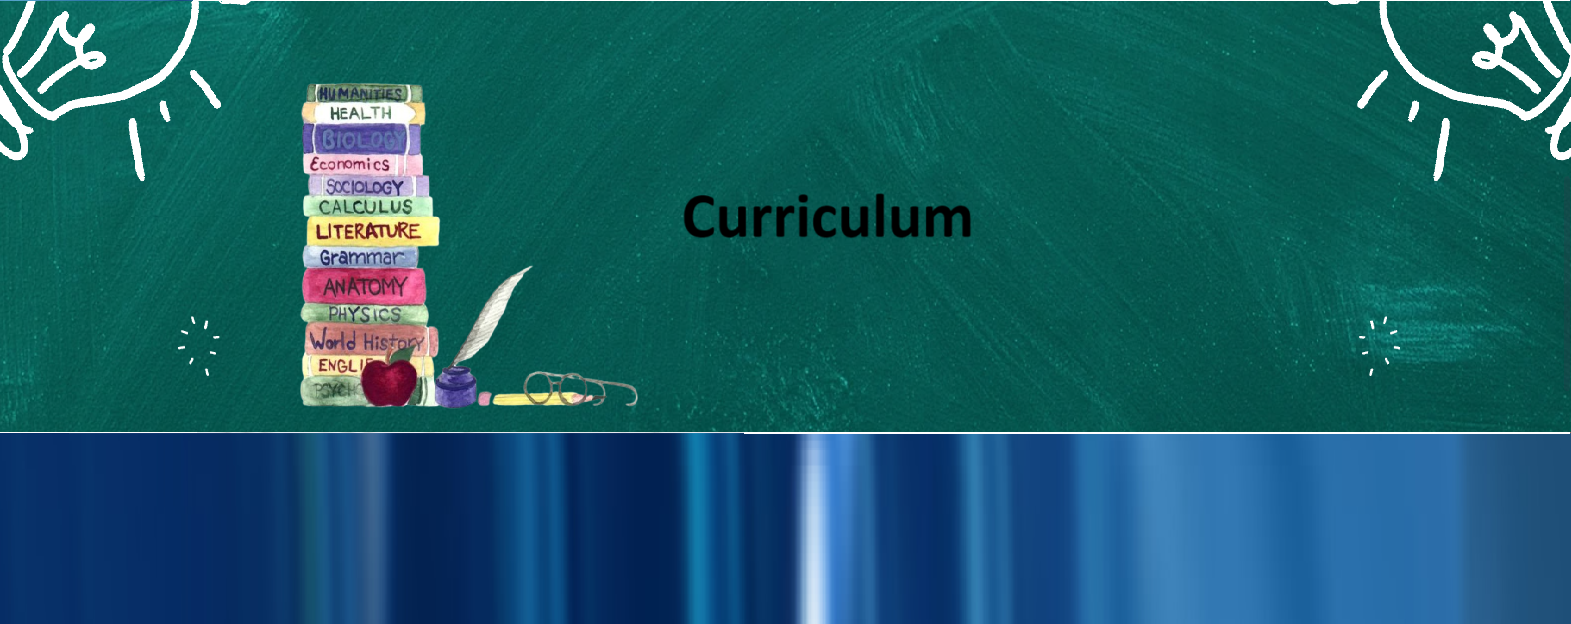
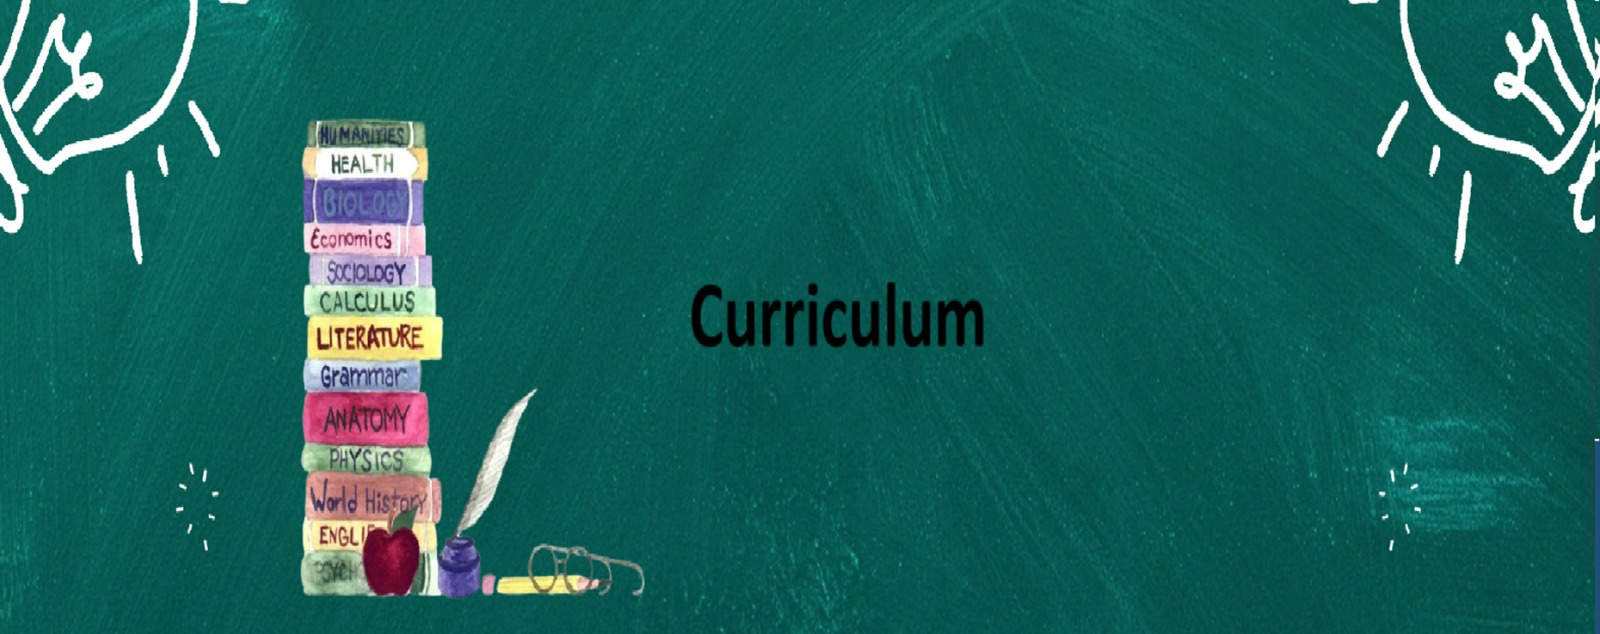
Ch-21

diff --git a/enquiry.html b/enquiry.html
@@ -4,7 +4,6 @@
 <head>
   <meta charset="utf-8">
   <title>Enquiry</title>
-  <link rel="stylesheet" href="style.css">
   <meta name="viewport" content="width=device-width, initial-scale=1.0, maximum-scale=1.0, user-scalable=no">
   <link rel="icon"
     href="https://play-lh.googleusercontent.com/MWCnZZzrbIgGoCnrtLq1-Zt4vgY3nzJSp7HvzxdnK5o0bXz6gswjgJOpRX0cddLpYOg">
@@ -18,7 +17,7 @@
   <link href="https://cdn.jsdelivr.net/npm/bootstrap@5.3.3/dist/css/bootstrap.min.css" rel="stylesheet"
     integrity="sha384-QWTKZyjpPEjISv5WaRU9OFeRpok6YctnYmDr5pNlyT2bRjXh0JMhjY6hW+ALEwIH" crossorigin="anonymous">
 </head>
-
+<link rel="stylesheet" href="style.css">
 <body>
   <nav class="navbar navbar-expand-lg navbar-light bg-174B66 sticky-top poppins">
     <div class="container">
@@ -72,9 +71,9 @@
       </div>
     </div>
   </nav>
-  <div class="overlap-it-new poppins">
-    <img src="images/bg-page.png" alt="alt" width="100%" height="100%">
-  </div>
+  <!-- <div class="overlap-it-new poppins"> -->
+    <img src="images/bg-page.png" alt="alt" class="img-fluid">
+  <!-- </div> -->
   <div class="cards">
     <div class="spacers"></div>
     <div class="container my-5">

diff --git a/examinations.html b/examinations.html
@@ -4,7 +4,6 @@
 <head>
   <meta charset="utf-8">
   <title>Examinations</title>
-  <link rel="stylesheet" href="style.css">
   <meta name="viewport" content="width=device-width, initial-scale=1.0, maximum-scale=1.0, user-scalable=no">
   <link rel="icon"
     href="https://play-lh.googleusercontent.com/MWCnZZzrbIgGoCnrtLq1-Zt4vgY3nzJSp7HvzxdnK5o0bXz6gswjgJOpRX0cddLpYOg">
@@ -18,7 +17,7 @@
   <link href="https://cdn.jsdelivr.net/npm/bootstrap@5.3.3/dist/css/bootstrap.min.css" rel="stylesheet"
     integrity="sha384-QWTKZyjpPEjISv5WaRU9OFeRpok6YctnYmDr5pNlyT2bRjXh0JMhjY6hW+ALEwIH" crossorigin="anonymous">
 </head>
-
+<link rel="stylesheet" href="style.css">
 <body>
   <nav class="navbar navbar-expand-lg navbar-light bg-174B66 sticky-top poppins">
     <div class="container">
@@ -72,9 +71,9 @@
       </div>
     </div>
   </nav>
-  <div class="overlap-it-new poppins">
-    <img src="images/exam.png" alt="alt" width="100%" height="100%">
-  </div>
+  <!-- <div class="overlap-it-new poppins"> -->
+    <img src="images/exam.png" alt="alt" class="img-fluid">
+  <!-- </div> -->
   <div class="cards">
     <div class="spacers"></div>
     <div class="container my-5">

diff --git a/curriculum.html b/curriculum.html
@@ -4,7 +4,6 @@
 <head>
   <meta charset="utf-8">
   <title>Curriculum</title>
-  <link rel="stylesheet" href="style.css">
   <meta name="viewport" content="width=device-width, initial-scale=1.0, maximum-scale=1.0, user-scalable=no">
   <link rel="icon"
     href="https://play-lh.googleusercontent.com/MWCnZZzrbIgGoCnrtLq1-Zt4vgY3nzJSp7HvzxdnK5o0bXz6gswjgJOpRX0cddLpYOg">
@@ -18,7 +17,7 @@
   <link href="https://cdn.jsdelivr.net/npm/bootstrap@5.3.3/dist/css/bootstrap.min.css" rel="stylesheet"
     integrity="sha384-QWTKZyjpPEjISv5WaRU9OFeRpok6YctnYmDr5pNlyT2bRjXh0JMhjY6hW+ALEwIH" crossorigin="anonymous">
 </head>
-
+<link rel="stylesheet" href="style.css">
 <body>
   <nav class="navbar navbar-expand-lg navbar-light bg-174B66 sticky-top poppins">
     <div class="container">
@@ -72,9 +71,9 @@
       </div>
     </div>
   </nav>
-  <div class="overlap-it-new poppins">
-    <img src="images/cirr.png" alt="alt" width="100%" height="100%">
-  </div>
+  <!-- <div class="overlap-it-new poppins"> -->
+    <img src="images/cirr.png" alt="alt" class="img-fluid">
+  <!-- </div> -->
   <div class="cards">
     <div class="spacers"></div>
     <div class="container my-5">

diff --git a/admission.html b/admission.html
@@ -4,7 +4,6 @@
 <head>
   <meta charset="utf-8">
   <title>Admission</title>
-  <link rel="stylesheet" href="style.css">
   <meta name="viewport" content="width=device-width, initial-scale=1.0, maximum-scale=1.0, user-scalable=no">
   <link rel="icon"
     href="https://play-lh.googleusercontent.com/MWCnZZzrbIgGoCnrtLq1-Zt4vgY3nzJSp7HvzxdnK5o0bXz6gswjgJOpRX0cddLpYOg">
@@ -18,7 +17,7 @@
   <link href="https://cdn.jsdelivr.net/npm/bootstrap@5.3.3/dist/css/bootstrap.min.css" rel="stylesheet"
     integrity="sha384-QWTKZyjpPEjISv5WaRU9OFeRpok6YctnYmDr5pNlyT2bRjXh0JMhjY6hW+ALEwIH" crossorigin="anonymous">
 </head>
-
+<link rel="stylesheet" href="style.css">
 <body>
   <nav class="navbar navbar-expand-lg navbar-light bg-174B66 sticky-top poppins">
     <div class="container">
@@ -72,9 +71,9 @@
       </div>
     </div>
   </nav>
-  <div class="overlap-it-new poppins">
-    <img src="images/admi.png" alt="alt" width="100%" height="100%">
-  </div>
+  <!-- <div class="overlap-it-new poppins"> -->
+    <img src="images/admi.png" alt="alt" class="img-fluid">
+  <!-- </div> -->
   <div class="cards">
     <div class="spacers"></div>
     <div class="container my-5">

diff --git a/contact.html b/contact.html
@@ -4,7 +4,6 @@
 <head>
   <meta charset="utf-8">
   <title>Contact Us</title>
-  <link rel="stylesheet" href="style.css">
   <meta name="viewport" content="width=device-width, initial-scale=1.0, maximum-scale=1.0, user-scalable=no">
   <script src="https://kit.fontawesome.com/747233b0f8.js" crossorigin="anonymous"></script>
   <link rel="icon"
@@ -19,7 +18,7 @@
   <link href="https://cdn.jsdelivr.net/npm/bootstrap@5.3.3/dist/css/bootstrap.min.css" rel="stylesheet"
     integrity="sha384-QWTKZyjpPEjISv5WaRU9OFeRpok6YctnYmDr5pNlyT2bRjXh0JMhjY6hW+ALEwIH" crossorigin="anonymous">
 </head>
-
+<link rel="stylesheet" href="style.css">
 <body>
   <nav class="navbar navbar-expand-lg navbar-light bg-174B66 sticky-top poppins">
     <div class="container">
@@ -73,9 +72,9 @@
       </div>
     </div>
   </nav>
-  <div class="overlap-it-new poppins">
-    <img src="images/contact.png" alt="alt" width="100%" height="100%">
-  </div>
+  <!-- <div class="overlap-it-new poppins"> -->
+    <img src="images/contact.png" alt="alt" class="img-fluid">
+  <!-- </div> -->
   <div class="cards">
     <div class="spacers"></div>
     <div class="container my-5">

diff --git a/academic.html b/academic.html
@@ -4,7 +4,6 @@
 <head>
   <meta charset="utf-8">
   <title>Academic</title>
-  <link rel="stylesheet" href="style.css">
   <meta name="viewport" content="width=device-width, initial-scale=1.0, maximum-scale=1.0, user-scalable=no">
   <link rel="icon"
     href="https://play-lh.googleusercontent.com/MWCnZZzrbIgGoCnrtLq1-Zt4vgY3nzJSp7HvzxdnK5o0bXz6gswjgJOpRX0cddLpYOg">
@@ -18,7 +17,7 @@
   <link href="https://cdn.jsdelivr.net/npm/bootstrap@5.3.3/dist/css/bootstrap.min.css" rel="stylesheet"
     integrity="sha384-QWTKZyjpPEjISv5WaRU9OFeRpok6YctnYmDr5pNlyT2bRjXh0JMhjY6hW+ALEwIH" crossorigin="anonymous">
 </head>
-
+<link rel="stylesheet" href="style.css">
 <body>
   <nav class="navbar navbar-expand-lg navbar-light bg-174B66 sticky-top poppins">
     <div class="container">
@@ -72,8 +71,9 @@
       </div>
     </div>
   </nav>
-  <div class="overlap-it-sfs poppins">
-    <h1 class="large white shadow">Academic</h1>
+  <div class="my-container poppins">
+    <img src="images/sfs.png" style="width:100%" alt="alt">
+    <h1 class="large white shadow centered">Academic</h1>
   </div>
   <div class="cards">
     <div class="spacers"></div>

diff --git a/gallery.html b/gallery.html
@@ -6,7 +6,6 @@
   <meta name="viewport" content="width=device-width, initial-scale=1.0">
   <meta name="viewport" content="width=device-width, initial-scale=1.0, maximum-scale=1.0, user-scalable=no">
   <title>Gallery</title>
-  <link rel="stylesheet" href="style.css">
   <link rel="icon"
     href="https://play-lh.googleusercontent.com/MWCnZZzrbIgGoCnrtLq1-Zt4vgY3nzJSp7HvzxdnK5o0bXz6gswjgJOpRX0cddLpYOg">
   <link
@@ -20,6 +19,7 @@
     integrity="sha384-QWTKZyjpPEjISv5WaRU9OFeRpok6YctnYmDr5pNlyT2bRjXh0JMhjY6hW+ALEwIH" crossorigin="anonymous">
 </head>
 
+<link rel="stylesheet" href="style.css">
 <body>
   <nav class="navbar navbar-expand-lg navbar-light bg-174B66 sticky-top poppins">
     <div class="container">
@@ -73,9 +73,9 @@
       </div>
     </div>
   </nav>
-  <div class="overlap-it-new poppins">
-    <img src="images/gal.png" alt="alt" width="100%" height="100%">
-  </div>
+  <!-- <div class="overlap-it-new poppins"> -->
+    <img src="images/gal.png" alt="alt" class="img-fluid">
+  <!-- </div> -->
   <div class="cards-auto">
     <div class="spacers"></div>
     <div class="thick rounded-5 my-5 mx-5 row">

diff --git a/about.html b/about.html
@@ -4,7 +4,6 @@
 <head>
   <meta charset="utf-8">
   <title>About Us</title>
-  <link rel="stylesheet" href="style.css">
   <meta name="viewport" content="width=device-width, initial-scale=1.0, maximum-scale=1.0, user-scalable=no">
   <link rel="icon"
     href="https://play-lh.googleusercontent.com/MWCnZZzrbIgGoCnrtLq1-Zt4vgY3nzJSp7HvzxdnK5o0bXz6gswjgJOpRX0cddLpYOg">
@@ -18,6 +17,7 @@
   <link href="https://cdn.jsdelivr.net/npm/bootstrap@5.3.3/dist/css/bootstrap.min.css" rel="stylesheet"
     integrity="sha384-QWTKZyjpPEjISv5WaRU9OFeRpok6YctnYmDr5pNlyT2bRjXh0JMhjY6hW+ALEwIH" crossorigin="anonymous">
 </head>
+<link rel="stylesheet" href="style.css">
 
 <body>
   <nav class="navbar navbar-expand-lg navbar-light bg-174B66 sticky-top poppins">
@@ -73,9 +73,9 @@
     </div>
   </nav>
 
-  <div class="overlap-it-new poppins">
-    <img src="images/abt.png" alt="alt" width="100%" height="100%">
-  </div>
+  <!-- <div class="overlap-it-new poppins"> -->
+    <img src="images/abt.png" alt="alt" class="img-fluid">
+  <!-- </div> -->
 
   <div class="cards">
     <div class="spacers"></div>

diff --git a/vismis.html b/vismis.html
@@ -5,7 +5,6 @@
   <meta charset="UTF-8">
   <meta name="viewport" content="width=device-width, initial-scale=1.0, maximum-scale=1.0, user-scalable=no">
   <title>Vision / Misson</title>
-  <link rel="stylesheet" href="style.css">
   <link rel="icon"
     href="https://play-lh.googleusercontent.com/MWCnZZzrbIgGoCnrtLq1-Zt4vgY3nzJSp7HvzxdnK5o0bXz6gswjgJOpRX0cddLpYOg">
   <link
@@ -19,6 +18,7 @@
     integrity="sha384-QWTKZyjpPEjISv5WaRU9OFeRpok6YctnYmDr5pNlyT2bRjXh0JMhjY6hW+ALEwIH" crossorigin="anonymous">
 </head>
 
+<link rel="stylesheet" href="style.css">
 <body>
   <nav class="navbar navbar-expand-lg navbar-light bg-174B66 sticky-top poppins">
     <div class="container">
@@ -72,9 +72,9 @@
       </div>
     </div>
   </nav>
-  <div class="overlap-it-new poppins">
-    <img src="images/vis-tar.png" alt="alt" width="100%" height="100%">
-  </div>
+  <!-- <div class="overlap-it-new poppins"> -->
+    <img src="images/vis-tar.png" alt="alt" class="img-fluid">
+  <!-- </div> -->
   <div class="cards">
     <div class="spacers"></div>
     <div class="thick rounded-5 my-5 mx-5 row">

diff --git a/vprp.html b/vprp.html
@@ -5,7 +5,6 @@
   <meta charset="UTF-8">
   <meta name="viewport" content="width=device-width, initial-scale=1.0, maximum-scale=1.0, user-scalable=no">
   <title>Vice Principal's Note</title>
-  <link rel="stylesheet" href="style.css">
   <link rel="icon"
     href="https://play-lh.googleusercontent.com/MWCnZZzrbIgGoCnrtLq1-Zt4vgY3nzJSp7HvzxdnK5o0bXz6gswjgJOpRX0cddLpYOg">
   <link
@@ -19,6 +18,7 @@
     integrity="sha384-QWTKZyjpPEjISv5WaRU9OFeRpok6YctnYmDr5pNlyT2bRjXh0JMhjY6hW+ALEwIH" crossorigin="anonymous">
 </head>
 
+<link rel="stylesheet" href="style.css">
 <body>
   <nav class="navbar navbar-expand-lg navbar-light bg-174B66 sticky-top poppins">
     <div class="container">
@@ -72,8 +72,9 @@
       </div>
     </div>
   </nav>
-  <div class="overlap-it-sfs poppins">
-    <h1 class="large white shadow">About Us</h1>
+  <div class="my-container poppins">
+    <img src="images/sfs.png" style="width:100%" alt="alt">
+    <h1 class="large white shadow centered">Vice Principal's Message</h1>
   </div>
   <div class="cards">
     <div class="spacers"></div>

diff --git a/login.html b/login.html
@@ -5,7 +5,6 @@
   <meta charset="utf-8">
   <title>Login</title>
   <script src="app.js"></script>
-  <link rel="stylesheet" href="style.css">
   <meta name="viewport" content="width=device-width, initial-scale=1.0, maximum-scale=1.0, user-scalable=no">
   <link rel="icon"
     href="https://play-lh.googleusercontent.com/MWCnZZzrbIgGoCnrtLq1-Zt4vgY3nzJSp7HvzxdnK5o0bXz6gswjgJOpRX0cddLpYOg">
@@ -20,6 +19,7 @@
     integrity="sha384-QWTKZyjpPEjISv5WaRU9OFeRpok6YctnYmDr5pNlyT2bRjXh0JMhjY6hW+ALEwIH" crossorigin="anonymous">
 </head>
 
+<link rel="stylesheet" href="style.css">
 <body>
   <nav class="navbar navbar-expand-lg navbar-light bg-174B66 sticky-top poppins">
     <div class="container">
@@ -73,8 +73,9 @@
       </div>
     </div>
   </nav>
-  <div class="overlap-it-sfs poppins">
-    <h1 class="large white shadow">About Us</h1>
+  <div class="my-container poppins">
+    <img src="images/sfs.png" style="width:100%" alt="alt">
+    <h1 class="large white shadow centered">About Us</h1>
   </div>
   <div class="cards">
     <div class="spacers"></div>

diff --git a/kindergarden.html b/kindergarden.html
@@ -5,7 +5,6 @@
   <meta charset="UTF-8">
   <meta name="viewport" content="width=device-width, initial-scale=1.0, maximum-scale=1.0, user-scalable=no">
   <title>Kindergarden Gallery</title>
-  <link rel="stylesheet" href="style.css">
   <link rel="icon"
     href="https://play-lh.googleusercontent.com/MWCnZZzrbIgGoCnrtLq1-Zt4vgY3nzJSp7HvzxdnK5o0bXz6gswjgJOpRX0cddLpYOg">
   <link
@@ -19,6 +18,7 @@
     integrity="sha384-QWTKZyjpPEjISv5WaRU9OFeRpok6YctnYmDr5pNlyT2bRjXh0JMhjY6hW+ALEwIH" crossorigin="anonymous">
 </head>
 
+<link rel="stylesheet" href="style.css">
 <body>
   <nav class="navbar navbar-expand-lg navbar-light bg-174B66 sticky-top poppins">
     <div class="container">
@@ -72,8 +72,9 @@
       </div>
     </div>
   </nav>
-  <div class="overlap-it-sfs poppins">
-    <h1 class="large white shadow">About Us</h1>
+  <div class="my-container poppins">
+    <img src="images/sfs.png" style="width:100%" alt="alt">
+    <h1 class="large white shadow centered">Kindergarden</h1>
   </div>
   <div class="cards-scroll">
     <div class="py-5 px-5">
